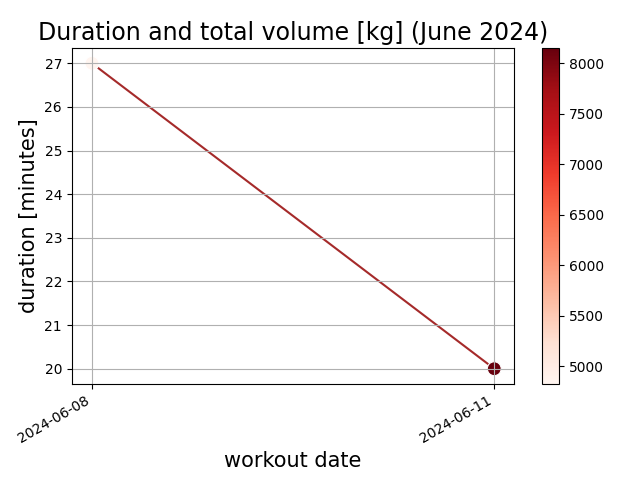
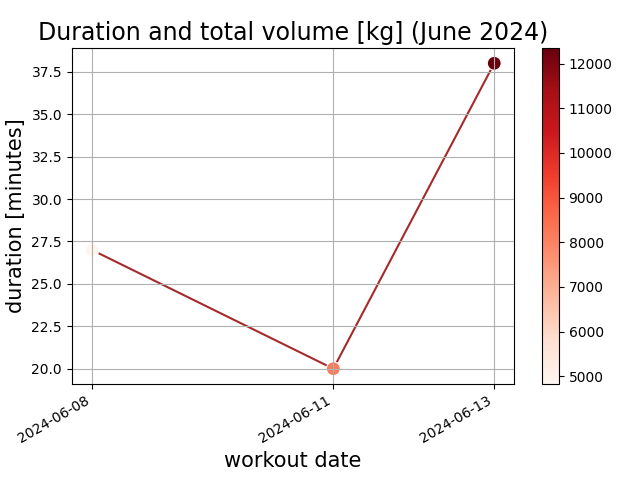
chore: add todays workout

diff --git a/docs/project_docs/examples/date-and-split.md b/docs/project_docs/examples/date-and-split.md
@@ -37,6 +37,7 @@ TODO: reverse sorting of dates, should be latest first.
     | 2024-05-05   | legs     |
     | 2024-06-08   | push     |
     | 2024-06-11   | pull     |
+    | 2024-06-13   | legs     |
 
 </details>
 
